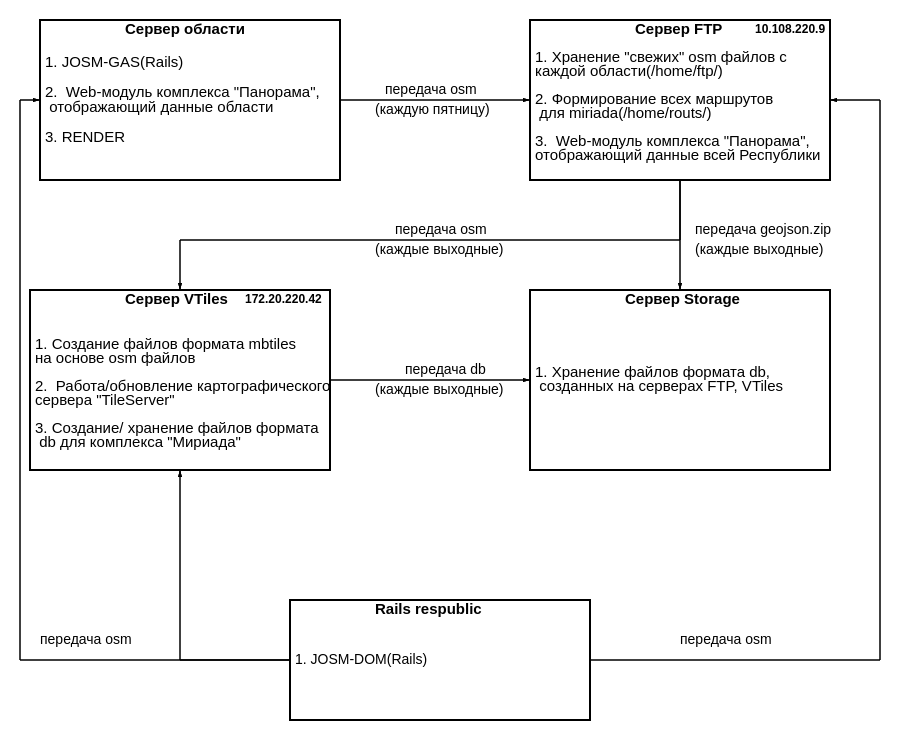
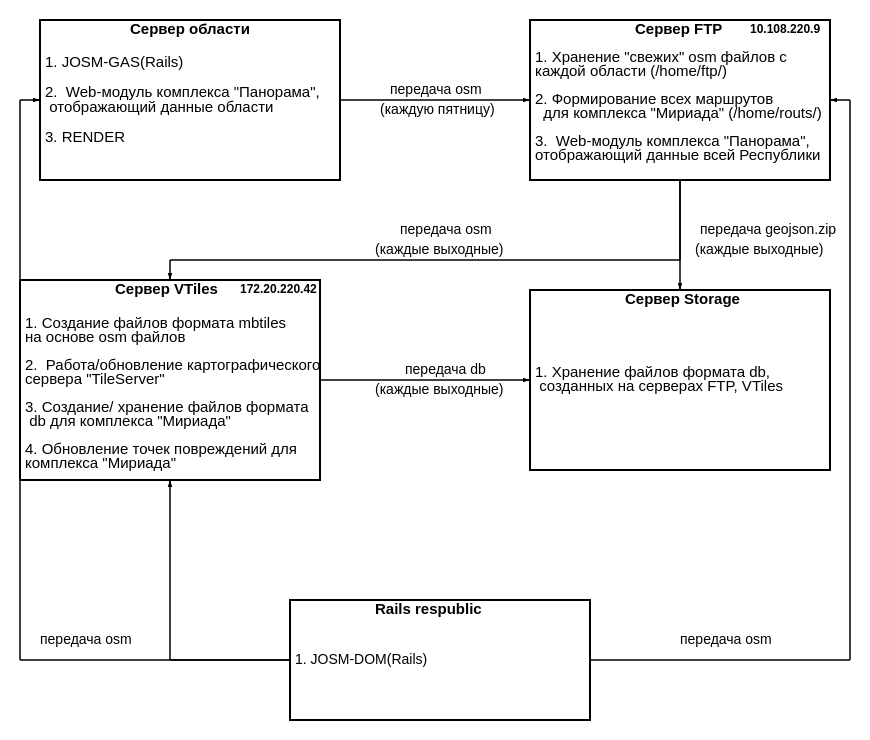
update

diff --git a/README.md b/README.md
@@ -1,26 +1,38 @@
 ### Структура программного комплекса "Панорама" ###
 ##### Программный комплекс "Панорама" состоит из:  #####
 ###### 1.  Cервер области, включающий в себя: ######
-+  [josm gas](https://gitlab.cloud.gas.by/panorama/josm-gas)(Rails)
++  [josm-gas](https://gitlab.cloud.gas.by/panorama/josm-gas)(Rails)
 +  web-модуль комплекса "[Панорама](http://panorama.topgas.by/)", отображающий данные определённой области
 +  render
 
-*Для каждой области существует отдельный сервер*
+*Для каждой области существует отдельный сервер области*
 ######  2.  Cервер FTP(10.108.220.9), выполняющий: ######
 +  хранение "свежих" osm файлов с каждой области(/home/ftp/)
-+  формирование всех маршрутов для miriada(/home/routs/)
-+  работу web-модуля комплекса "Панорама", отображающий данные всех областей
++  формирование всех маршрутов для комплекса "[Мириада](https://gitlab.cloud.gas.by/miriada)"(/home/routs/)
++  работу web-модуля комплекса "[Панорама](http://panorama.topgas.by/)", отображающий данные всех областей
 ######  3.   Сервер VTiles(172.20.220.42), роль которого: ######
-+  cоздание файлов формата mbtiles на основе osm файлов
-+  работа/обновление "TileServer"
-+  создание файлов формата db для комплекса "Мириада"
-+  временное хранение файлов формата db, описанных выше
-+  обновление точек повреждений для miriada при помощи скриптов(/home/update_gas_dbs)
++  cоздание файлов формата mbtiles на основе osm-файлов
++  работа/обновление картографического сервера "TileServer"
++  создание/хранение файлов формата db для комплекса "[Мириада](https://gitlab.cloud.gas.by/miriada)"
++  обновление точек повреждений для комплекса "[Мириада](https://gitlab.cloud.gas.by/miriada)" при помощи скриптов(/home/update_gas_dbs)
 ######  4.   Сервер Storage, выполняющий: ######
 +  хранение файлов формата db, созданных на сервере VTiles
-######  5.   Сервер Rails respublic, выполняющий: ######
-+  josm dom(Rails)
+######  5.   Сервер Rails respublic, включающий в себя: ######
++  josm-dom(Rails)
+___
 
+##### Описание: ##### 
+1. На сервер Rails respublic работает Josm-dom(Rails), необходимый для создания/редактирования географических элементов Республики Беларусь в формате osm. Данные, полученные от Josm-dom(Rails), служат "подложкой" для комплекса "[Панорама](http://panorama.topgas.by/)" и комплекса "[Мириада](https://gitlab.cloud.gas.by/miriada)". Данные с "подложкой" передаются на сервер области(для комплекса "[Панорама](http://panorama.topgas.by/)", который отображает одну опредёлнную область), на сервер FTP(для комплекса "[Панорама](http://panorama.topgas.by/)", который отображает всю Республику Беларусь) и на сервер VTiles(для приобразования "подложки" формату, поддерживаемому комплексом "[Мириада](https://gitlab.cloud.gas.by/miriada)").
+2. На Cервере области крутится josm-gas(Rails),web-модуль комплекса "[Панорама](http://panorama.topgas.by/)" и render. Josm-gas(Rails) необходим для создания/редактирования газовых элементов и создания маршрутов в формате osm. Созданный osm-файл с данными о газовых элементах определённой области отдаётся web-модулю комплекса "[Панорама](http://panorama.topgas.by/)" для последующего отображения. Также все созданные osm-файлы(osm-файл с данными о газовых элементах области, osm-файлы с данными об маршрутах для комплекса "[Мириада](https://gitlab.cloud.gas.by/miriada)") отдаются серверу FTP.
+3. На сервере FTP(10.108.220.9) хранятся osm-файлы, полученные от серврера области, в каталоге /home/ftp/. Формирование маршрутов для комплекса "[Панорама](http://panorama.topgas.by/)" осуществляется в каталоге /home/routs/. На сервере FTP работает web-модуль комплекса "[Панорама](http://panorama.topgas.by/)", роль которого заключается в отображении osm-файлов газовых элементов всех областей.
+Сформированные маршруты для комплекса "[Мириада](https://gitlab.cloud.gas.by/miriada)" передаются серверу Storage в качестве файлов geojson.zip.
+Данные об газовых элементах каждой из областей передаются серверу VTiles в качестве набора из 7-ми osm-файлов.
+4. На сервере VTiles(172.20.220.42) работает docker-контейнер картографического
+сервера "[TileServer](https://hub.docker.com/r/maptiler/tileserver-gl)". Вышеописанный сервер принимает в качестве входных данных файлы формата mbtiles. Данный формат файлов создаётся на основе файлов формата osm при помощи проекта [osm_to_mbtiles](https://gitlab.cloud.gas.by/panorama/osm_to_mbtiles). При получении "свежих" osm-файлов с газовыми элементами(от сервера FTP), либо с географическими данными Беларуси(от сервера Rails respublic), начинается работа скриптов по генерации mbtiles-файлов и обновлению данными файлами картографического сервера "[TileServer](https://hub.docker.com/r/maptiler/tileserver-gl)".
+После вышеописанной части начинается работа скриптов по созданию файлов формата db для комплекса "[Мириада](https://gitlab.cloud.gas.by/miriada)". Файлы формата db формируются скриптами опираясь на данные от  картографического
+сервера "[TileServer](https://hub.docker.com/r/maptiler/tileserver-gl)". Отдельно скриптами выполняется обновление точек повреждений для комплекса "[Мириада](https://gitlab.cloud.gas.by/miriada)", скрипты находятся по пути /home/update_gas_dbs/ .
+Созданные файлы формата db временно хранятся на сервере VTiles, а после отдаются серверу Storage.
+5. Сервер Storage служит для хранения файлов комплекса "[Мириада](https://gitlab.cloud.gas.by/miriada)".
 ___
 *Передача файлов формата osm от сервера области к серверу FTP осуществляется каждую пятницу.*
 *Передача файлов формата osm от сервера FTP к серверу VTiles осуществляется каждые выходные.*
@@ -28,5 +40,4 @@ ___
 *Передача файлов формата db от сервера VTiles к серверу Storage осуществляется каждые выходные.*
 *Передача файлов формата osm от сервера Rails respublic к серверу области/FTP/VTiles осуществляется каждые выходные.*
 ___
-
 ![Image alt](https://github.com/Zhdanovich98/osmconvertor/raw/master/png/diagram.png)
